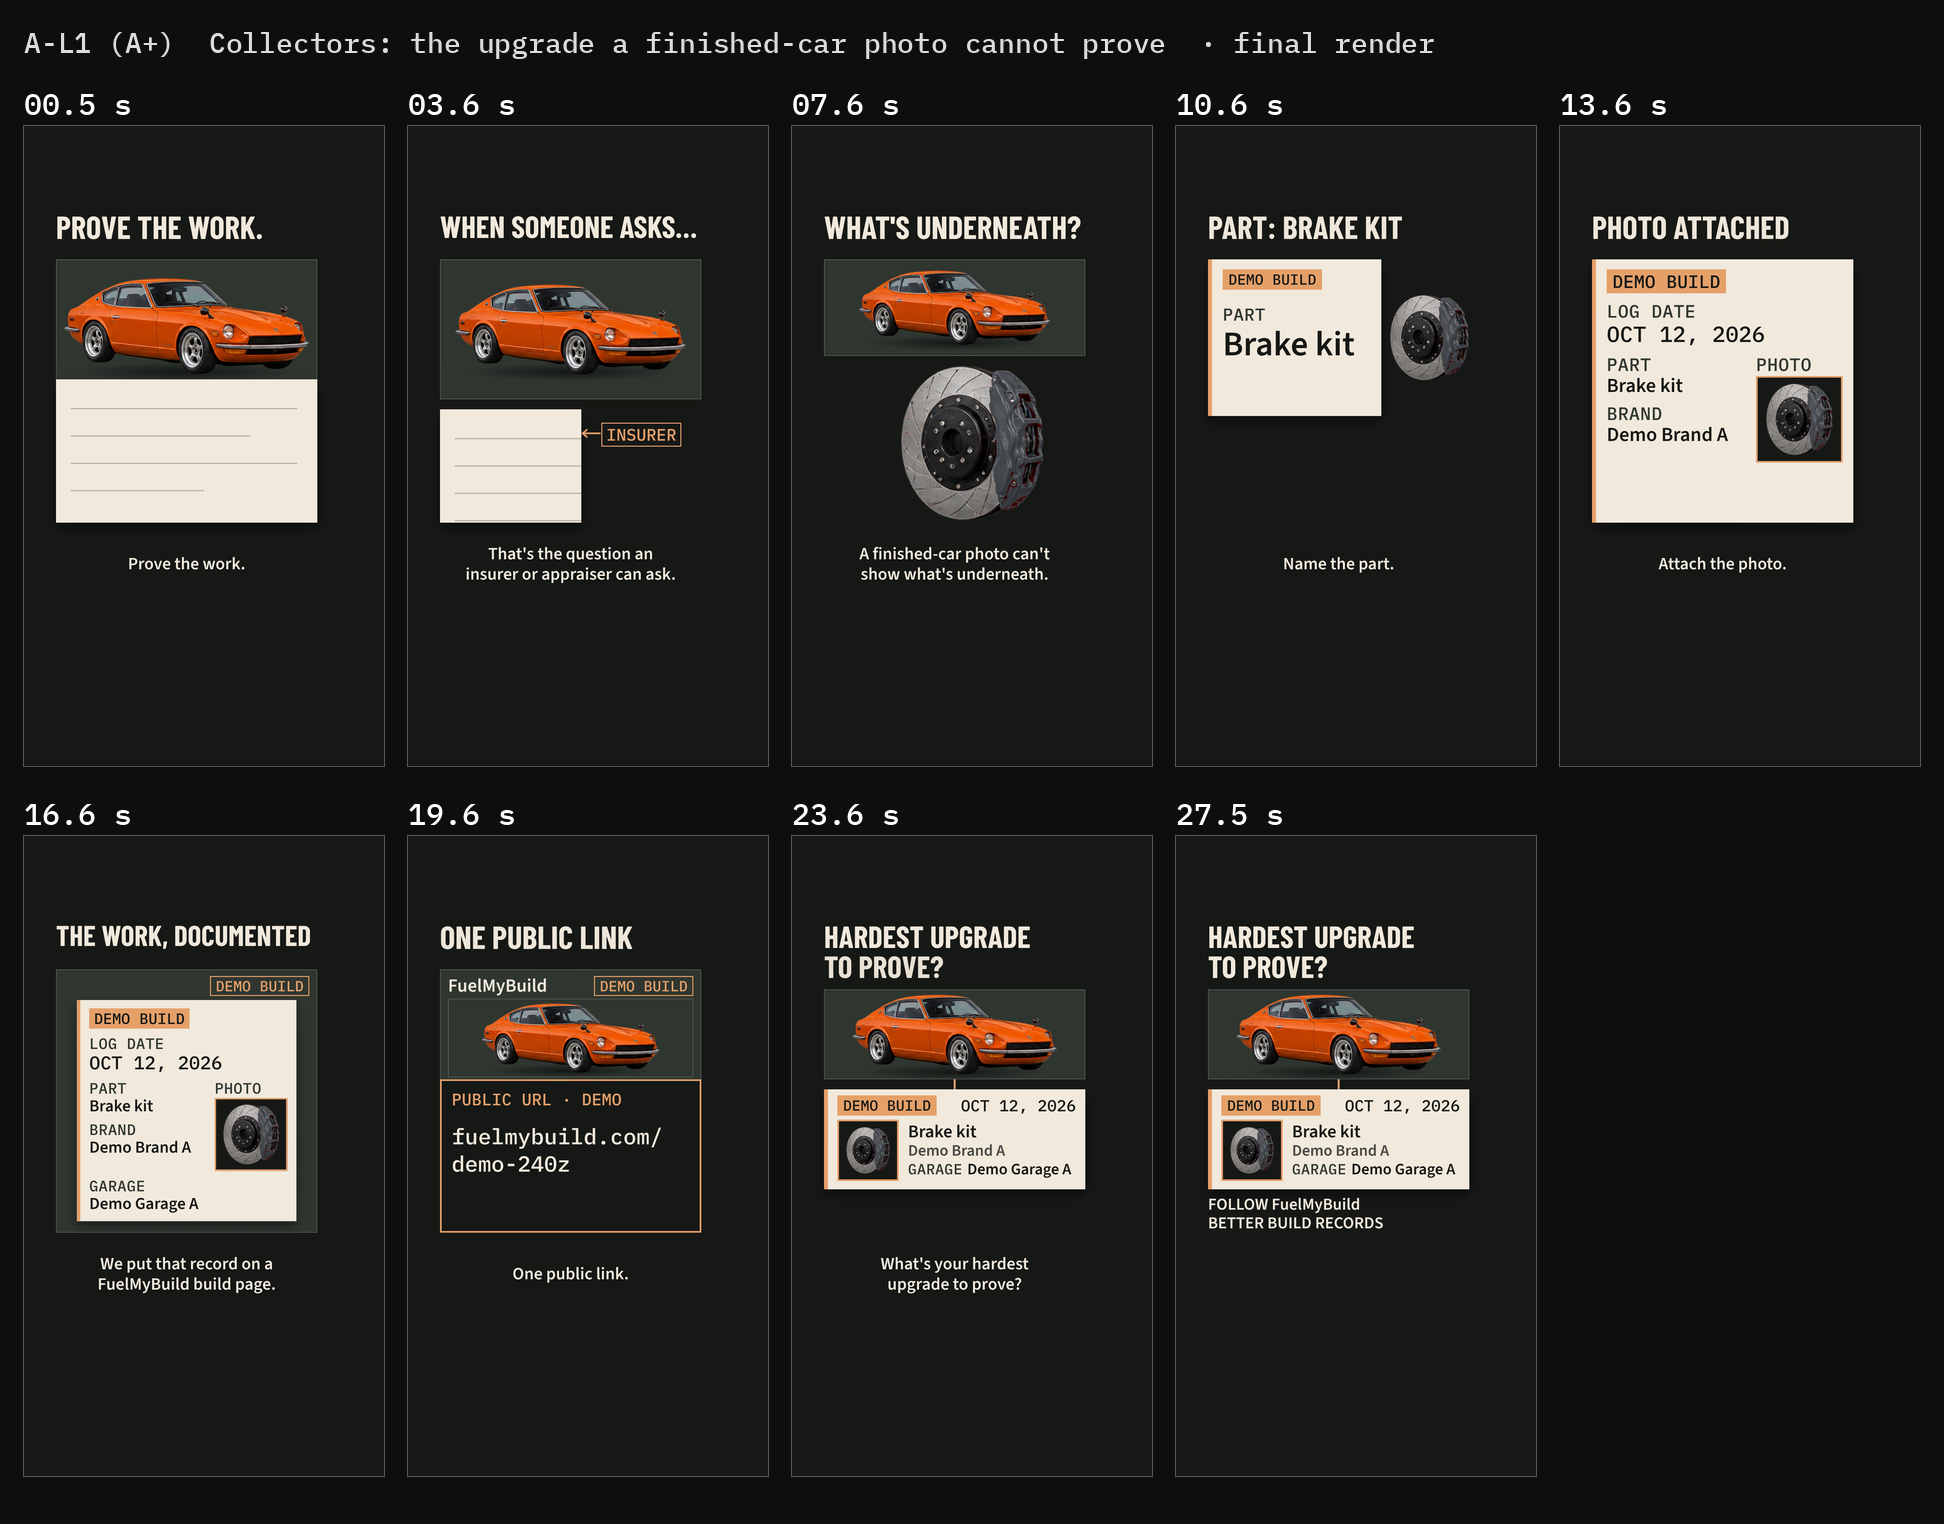
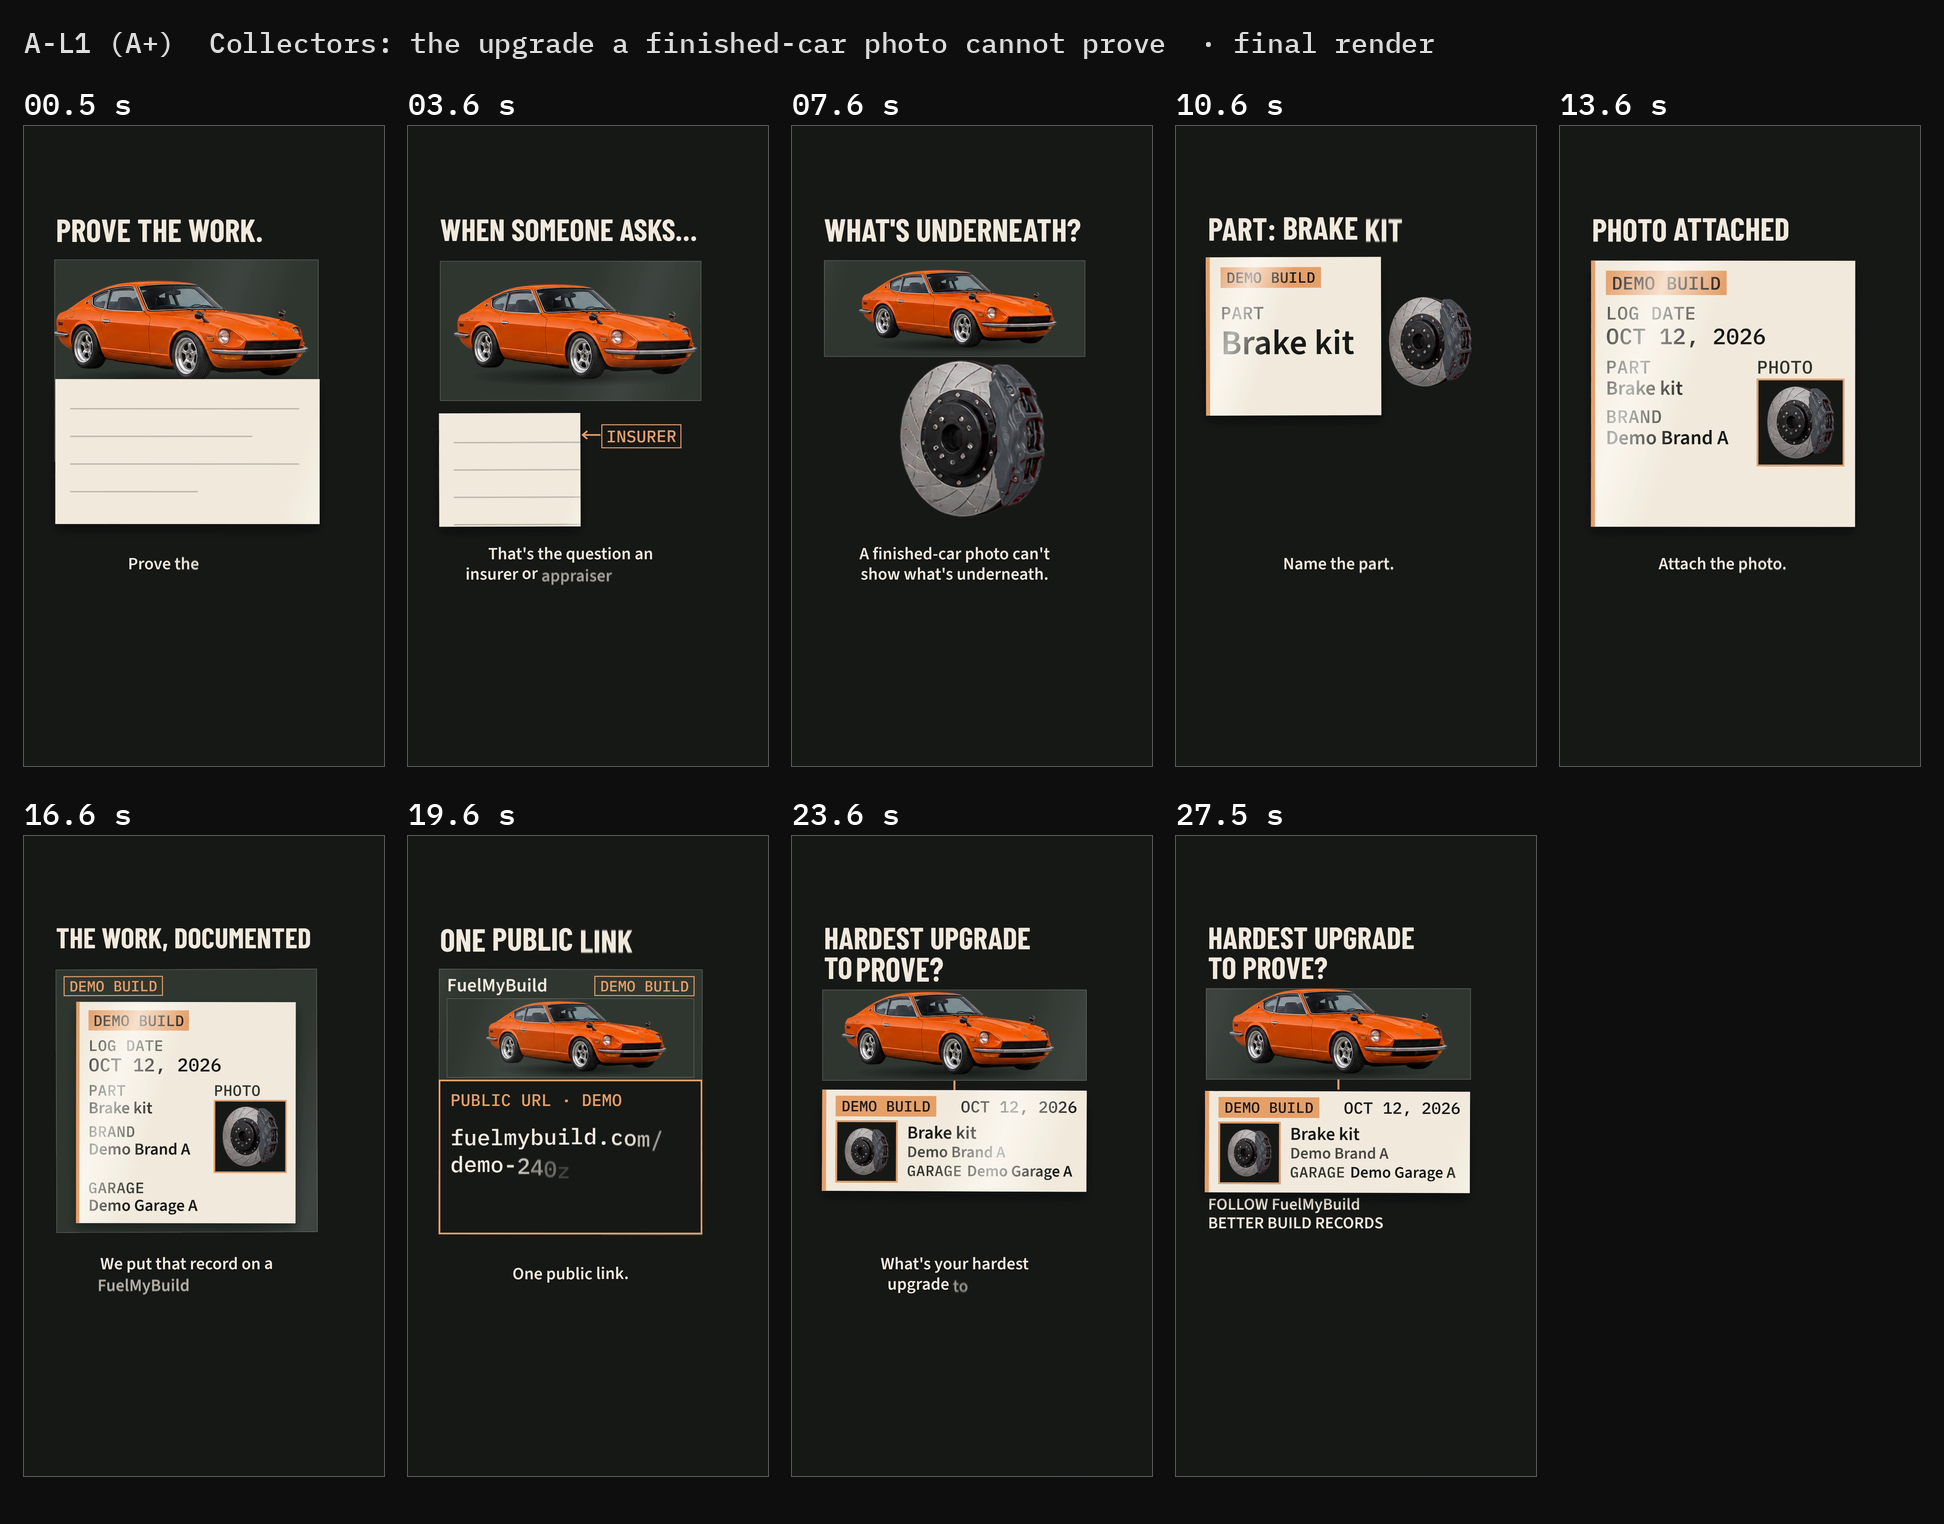
Lab W44 A+: motion pass (always alive) for A-L1..L3, masters replaced on renders
Per-word headline and subtitle springs with real exits and kinetic pops, per-character values,
drawn lines draw on, velocity motion blur, idle life (Ken Burns in frames, cut-out sway, card
float with sweeps, stage breathe). Static 0.5 s windows 38/34/37 -> 0/0/0; audio unchanged.

Claude-Session: https://claude.ai/code/session_016g3Ws6RKPFxbXeFgZ5cwJK

diff --git a/weeks/2026-W44/lab/A/aplus/src/L3.tsx b/weeks/2026-W44/lab/A/aplus/src/L3.tsx
@@ -3,7 +3,7 @@
 import React from "react";
 import { clamp, Film, Headline, Photo, Cut, Box, Img, Tag, track, prog, E, mono, ui, fit, UI, MONO } from "./lib";
 import { valueIn, StrikeReplace, Caret } from "./remocn";
-import { Stage, Unstage, Words, Chars, idle, idleT, mb } from "./alive";
+import { Stage, Unstage, endAmt, Words, Chars, idle, idleT, mb } from "./alive";
 // the mockup (8-18) floats as one: fields, title, tag and rule ride its float so nothing slides against the card
 const MPL = { seed: 5, y: 11, r: 0.2 };
 const hostY = (t) => idle(t, MPL.seed, { y: MPL.y }).y;
@@ -28,7 +28,7 @@ const Bubble = ({ s, children, z = 6, seed = 0 }) => {
   if (!s || s.o <= 0.001) return null;
   const fs = s.fs || 54;
   return (
-    <div style={{ position: "absolute", left: s.x + (s.dx || 0), top: s.y, opacity: s.o, zIndex: z, transform: `scale(${s.s ?? 1}) ${idleT(window.__T || 0, seed, { y: 8 })}`, transformOrigin: "0% 100%", filter: mb(s.vx, 0) }}>
+    <div style={{ position: "absolute", left: s.x + (s.dx || 0), top: s.y, opacity: s.o, zIndex: z, transform: `scale(${s.s ?? 1}) ${idleT(window.__T || 0, seed, { y: 12 })}`, transformOrigin: "0% 100%", filter: mb(s.vx, 0) }}>
       <div style={{ display: "inline-block", whiteSpace: "nowrap", ...ui(fs, { lineHeight: 1.12 }), padding: `${fs * 0.4}px ${fs * 0.62}px`, borderRadius: fs * 0.62,
         background: `color-mix(in srgb, ${pal.pn} ${Math.round((s.bg ?? 1) * 100)}%, transparent)` }}>{children}</div>
     </div>
@@ -114,7 +114,7 @@ export const L3 = () => (
       return (
         <>
           <Headline t={t} cues={HEAD} pal={pal} emph={["GUESS", "ANSWER?", "ANSWER", "MISSING?", "BRAND", "FACT", "MOST?"]} />
-          <Stage t={t}>
+          <Stage t={t} amt={endAmt(t)}>
           {/* 0-6 the argument */}
           <Photo s={{ ...PH, y: PH.y + PH.dy, vy: PH.vy }} name={CAR} aspect={CAR_A} pal={pal} z={t >= 21 ? 4 : 2} seed={1} kb={PH.h < 300 ? 1.6 : 1} />
           {/* mockup crop / build page (8-18) */}
@@ -122,7 +122,7 @@ export const L3 = () => (
             {t >= 14 && <Chars t={t} t0={14} text="FuelMyBuild" style={{ position: "absolute", left: 34, top: 14, ...ui(56) }} stagger={1.5} rise={24} />}
           </Box>
           <Cut s={{ ...K, dy: (K.dy || 0) + (t >= 8 && t < 18 ? hostY(t) : 0) }} name={KIT} aspect={KIT_A} z={4} seed={2} sway={1.7} />
-          <Unstage t={t}><Box s={{ x: 96, y: 930, w: 784, h: 220, o: EBF.o, dy: EBF.dy }} z={5}>
+          <Unstage t={t} amt={endAmt(t)}><Box s={{ x: 96, y: 930, w: 784, h: 220, o: EBF.o, dy: EBF.dy }} z={5}>
             <div style={lab(52)}>BRAND</div>
             <div style={{ height: 120, border: `4px dashed ${pal.tx}88`, boxSizing: "border-box", marginTop: 8, padding: "18px 24px" }}><Caret t={t} t0={7} color={pal.em} w={8} h={76} /></div>
           </Box></Unstage>
@@ -158,8 +158,8 @@ export const L3 = () => (
           <Bubble s={QB} seed={1}>{t >= 18 && t < 18.6 ? <Words t={t} t0={18.0} text="What turbo is that?" stagger={3} rise={20} /> : "What turbo is that?"}</Bubble>
           <Bubble s={R1} seed={2}>Brand B, I think.</Bubble>
           <Bubble s={R2} z={7} seed={3}>{t < 3 ? "Brand B, I think." : <StrikeReplace t={t} t0={3.0} dur={0.75} from="Brand B, I think." to="Brand B" lineColor={pal.tx} />}</Bubble>
-          <Unstage t={t}><Bubble s={LK} seed={4}><span style={{ display: "block" }}><Chars t={t} t0={19.08} text="fuelmybuild.com/demo-supra" stagger={0.6} rise={14} /></span><span style={{ display: "block", ...mono(44, { opacity: 0.8 }) }}>(DEMO)</span></Bubble></Unstage>
-          <Unstage t={t}>{t >= 25 && <div style={{ position: "absolute", left: 96, top: 1080, width: 784, ...ui(50), lineHeight: 1.12, zIndex: 8 }}>
+          <Unstage t={t} amt={endAmt(t)}><Bubble s={LK} seed={4}><span style={{ display: "block" }}><Chars t={t} t0={19.08} text="fuelmybuild.com/demo-supra" stagger={0.6} rise={14} /></span><span style={{ display: "block", ...mono(44, { opacity: 0.8 }) }}>(DEMO)</span></Bubble></Unstage>
+          <Unstage t={t} amt={endAmt(t)}>{t >= 25 && <div style={{ position: "absolute", left: 96, top: 1080, width: 784, ...ui(50), lineHeight: 1.12, zIndex: 8 }}>
             <Words t={t} t0={25} text="FOLLOW FuelMyBuild" style={{ display: "block" }} pops={(w) => w === "FOLLOW"} />
             {t >= 26 && <Words t={t} t0={26} text="BETTER BUILD RECORDS" style={{ display: "block" }} />}
           </div>}</Unstage>

diff --git a/weeks/2026-W44/lab/A/aplus/src/L2.tsx b/weeks/2026-W44/lab/A/aplus/src/L2.tsx
@@ -3,7 +3,7 @@
 import React from "react";
 import { Film, Headline, Photo, Box, Img, Tag, track, prog, E, mono, ui, fit, UI, MONO } from "./lib";
 import { valueIn } from "./remocn";
-import { Words, Chars, idle, idleT, Stage, Unstage } from "./alive";
+import { Words, Chars, idle, idleT, Stage, Unstage, endAmt } from "./alive";
 // one shared float per host card, so fields and thumbs ride with the card they sit on (job card 5-15, build page 16-28)
 const HOST = (t) => (t < 15.5 ? { seed: 3, y: 8, r: 0.15 } : { seed: 5, y: 8, r: 0.15 });
 const hostY = (t) => { const h = HOST(t); return idle(t, h.seed, { y: h.y }).y; };
@@ -168,7 +168,7 @@ export const L2 = () => (
       return (
         <>
           <Headline t={t} cues={HEAD} pal={pal} emph={["WHICH", "JUDGE", "WORK", "MORE", "CONNECTED", "UNTIL"]} />
-          <Stage t={t}>
+          <Stage t={t} amt={endAmt(t)}>
           {/* build page frame (18-28) */}
           <Box s={G} v z={1} live={HOST(19)} sweep={{ alpha: 0.11, period: 2.4, seed: 4 }} style={{ background: pal.pn, boxShadow: `inset 0 0 0 2px ${pal.tx}38` }}>
             {t >= 19 && <Chars t={t} t0={19} text="FuelMyBuild" style={{ position: "absolute", left: 24, top: 12, ...ui(56) }} stagger={1.5} rise={24} />}
@@ -201,7 +201,7 @@ export const L2 = () => (
             <div style={lab(t < 21 ? 44 : 48)}>PUBLIC URL · DEMO</div>
             {t >= 21 && <div style={{ ...mono(58), marginTop: 12, lineHeight: 1.22 }}><Chars t={t} t0={21.1} text="fuelmybuild.com/" stagger={0.8} /><br /><Chars t={t} t0={21.3} text="demo-miata" stagger={1} /></div>}
           </Box>
-          <Unstage t={t}>{t >= 25 && <div style={{ position: "absolute", left: 96, top: 1078, width: 784, ...ui(50), lineHeight: 1.12, zIndex: 8 }}>
+          <Unstage t={t} amt={endAmt(t)}>{t >= 25 && <div style={{ position: "absolute", left: 96, top: 1078, width: 784, ...ui(50), lineHeight: 1.12, zIndex: 8 }}>
             <Words t={t} t0={25} text="FOLLOW FuelMyBuild" style={{ display: "block" }} pops={(w) => w === "FOLLOW"} />
             {t >= 26 && <Words t={t} t0={26} text="BETTER BUILD RECORDS" style={{ display: "block" }} />}
           </div>}</Unstage>

diff --git a/weeks/2026-W44/lab/A/aplus/src/alive.tsx b/weeks/2026-W44/lab/A/aplus/src/alive.tsx
@@ -136,6 +136,8 @@ export const Stage = ({ t, children, amt = 1 }) => {
   const { k, dy } = cam(t, amt);
   return <div style={{ position: "absolute", inset: 0, transform: `translateY(${dy.toFixed(2)}px) scale(${k.toFixed(5)})`, transformOrigin: "540px 800px" }}>{children}</div>;
 };
+// closing hold (24 s on): the breathe grows to 2x so the last seconds never settle (L2, L3)
+export const endAmt = (t) => 1 + 1.0 * Math.min(1, Math.max(0, (t - 24) / 1.2));
 // cancels the stage camera for text that sits right on the safe edge (x 96): the follow lines, edge labels
 export const Unstage = ({ t, children, amt = 1 }) => {
   const { k, dy } = cam(t, amt);

diff --git a/weeks/2026-W44/lab/A/aplus-changes.md b/weeks/2026-W44/lab/A/aplus-changes.md
@@ -96,3 +96,42 @@ Code: `aplus/` (Remotion project `src/`, sound `audio/`, QA `check.py`, VO windo
 - Bed stems: -20.0 LUFS; true peak -3.0 (L1), -2.5 (L2), -2.3 (L3) dBTP.
 - The checker overlay was run on all 27 contact-sheet frames: no text under 44 px, no clipped or overlapping text, no visuals in the subtitle band.
 - Not verified by ear: the sound design was checked only by levels, structure (per-half-second RMS shows the gaps and drops at the spec times) and onset timing. Wayne should listen to one of the three before posting.
+
+## Motion pass (2026-10-15, "Always alive" rule)
+Improved in place: same story, beats, timings, layout, text, palettes, fonts, VO windows and audio. Every SFX and music cue is untouched; the master wavs and `<id>-A-bed.wav` stems are byte-identical, so only the three `.mp4` masters were replaced on `renders`. No house-style elements were added: the ChatGPT look stays as it was, and only the way things move changed.
+
+**Measure** (`aplus/energy.py`): luma at 270×480, mean absolute frame-to-frame difference (0–255), averaged per 0.5 s window. A window is *static* below 0.35. That threshold is the energy of the slow drift-push holds in lane B, the slowest motion we already treat as alive.
+
+| id | static windows before → after | lowest window before → after | longest frozen run before → after |
+|---|---|---|---|
+| A-L1 | 38 → 0 | 0.000 → 0.383 (9.5 s) | 1.13 s → 0 |
+| A-L2 | 34 → 0 | 0.000 → 0.392 (8.5 s) | 1.17 s → 0 |
+| A-L3 | 37 → 0 | 0.000 → 0.364 (26.5 s) | 0.77 s → 0 |
+
+Before the pass, every x.5 window was dead: each row moved in its first ~0.45 s and then froze.
+
+**What moves now** (`aplus/src/alive.tsx`, used by `lib.tsx` and the three scenes):
+- **Headlines** go word by word. New words spring up 4 frames apart (closed-form spring, ~12 % overshoot, directional motion blur from velocity). Changed words leave on a 1-frame stagger with a rise, fade and blur, so the exit finishes before the next row reads. Unchanged lines still hold. Emphasis words get a kinetic pop, a stretch that overshoots in scale only, from the cap line: L1 PROVE, UNDERNEATH?, DOCUMENTED, RECORD; L2 WHICH, JUDGE, WORK, MORE, CONNECTED, UNTIL; L3 GUESS, ANSWER?, MISSING?, BRAND, MOST?. There is no pop on the t = 0 hook line, whose first words are already landing on frame 0. Held headlines float 2–10 px vertically, never sideways, so the left edge stays on x 96.
+- **Subtitles** (same font, size, colour, shadow and band) reveal per word in reading order across the spoken part of each VO window, weighted by word length to track a ~3 words/s read. They leave with a short staggered rise that ends exactly on the window end, so the VO windows are unchanged.
+- **Values** reveal per character for Plex Mono strings (dates, URLs, L3 part/brand, requester labels, PARTS REGISTRY, "FuelMyBuild" titles) and per word for UI strings (part, brand, garage, follow lines). L2's "Miata" exits per character.
+- **Drawn lines draw on:** L1's blank-panel rules (staggered at 0 s), L2's selection outline (stroke draws at 2.0 s, then moves as before), and L3's rule under PARTS (8.05 s). The existing joining lines, arrows, strike and ruled job-card lines already drew on.
+- **Motion blur on fast moves:** every track now carries its velocity. Moves faster than ~3 px/frame get a directional SVG Gaussian blur along the move, capped at 16 px. Zero-length (hard-cut) keyframes are applied to the previous frame too, so the spec's hard cuts (L2 15 s, L3 8 s and 18 s) never blur.
+- **Holds keep living:**
+  - Car photos: Ken Burns *inside* the fixed frame (zoom breathes 0–6 %, the subject pans ±22 px) plus a faint light sweep, so the frame edges and layout don't move.
+  - Cut-outs (brake kit, turbo kit): gentle sway (±2–3°, ±10–16 px bob, 3–5 % breathing).
+  - Cards (L1 paper record, L2 job card and build page, L3 mockup and record): slow float plus a light sweep. Fields, tags, rules and thumbnails ride their card's float, so nothing slides against its card.
+  - L3 comment bubbles bob.
+  - Short slow pushes on the hero kit where a hold had nothing else (L1 8.45–10 s, L2 8.35–9 s, L3 11.45–14 s). Each is handed back during the next move, so the scale never jumps.
+  - A stage camera breathe (scale 1.000–1.014 about 540,800, ±5 px drift) runs under the headline. From 24 s in L2 and L3 it grows to 2× through the closing hold. Text that sits on x 96 (follow lines, L3's empty BRAND slot) and the L3 link bubble are counter-transformed (`Unstage`) so they stay inside the safe box.
+- **Spec "hold" and "freeze" rows** (L1 1–2 s hold and 27–28 s freeze, L2 0–4 s, L3 4–6 s): no new element appears and nothing is added to the story, but they now carry idle drift, per Wayne's 2026-10-14 rule that supersedes "nothing moves" from §2.
+- remocn: the mask-reveal-up headline is replaced by per-word springs (same rise and blur feel). caption-subtitle is replaced by a per-word reveal. value-swap, strikethrough-replace, caret and drift are kept.
+
+**Checks**
+- Delivered mp4s: all three are 28.000 s, 840 frames, 1080×1920 at 30 fps. Mux lag 0 samples, every hit within ±1 frame (max cue offset 3.6 / 4.9 / 5.3 ms).
+- Loudness (unchanged audio): A-L1 -14.1 LUFS, -2.5 dBTP; A-L2 -14.0 LUFS, -1.5 dBTP; A-L3 -14.1 LUFS, -2.9 dBTP.
+- Review stills:
+  - ~110 targeted checker stills (25–30 per video around every changed beat, plus fix re-checks) and a checker sweep every 0.25 s (112 frames per video).
+  - New issues found and fixed: pop overshoot leaving the safe box and touching the next word; outgoing headline words ghosting under incoming ones; edge text pushed out by the camera; the L3 link bubble crossing x 880.
+  - The sweep's 12 remaining hits are all mid-move transients in the first 2–10 frames of existing tweens and exits (L1 5.3/5.6/18.1 s, L2 5.3/9.1/17.3/21.1 s, L3 2.1/6.3/16.3/19.1/21.1 s). The original code flags the same 12 frames.
+  - 24 frames pulled from the delivered mp4s were reviewed. Final sheets were regenerated (`storyboard/A-L*/A-L*-final-sheet.png`).
+- Render: hook (0–89) and body (90–839) rendered separately, then spliced and muxed with `finish.sh` as before.
